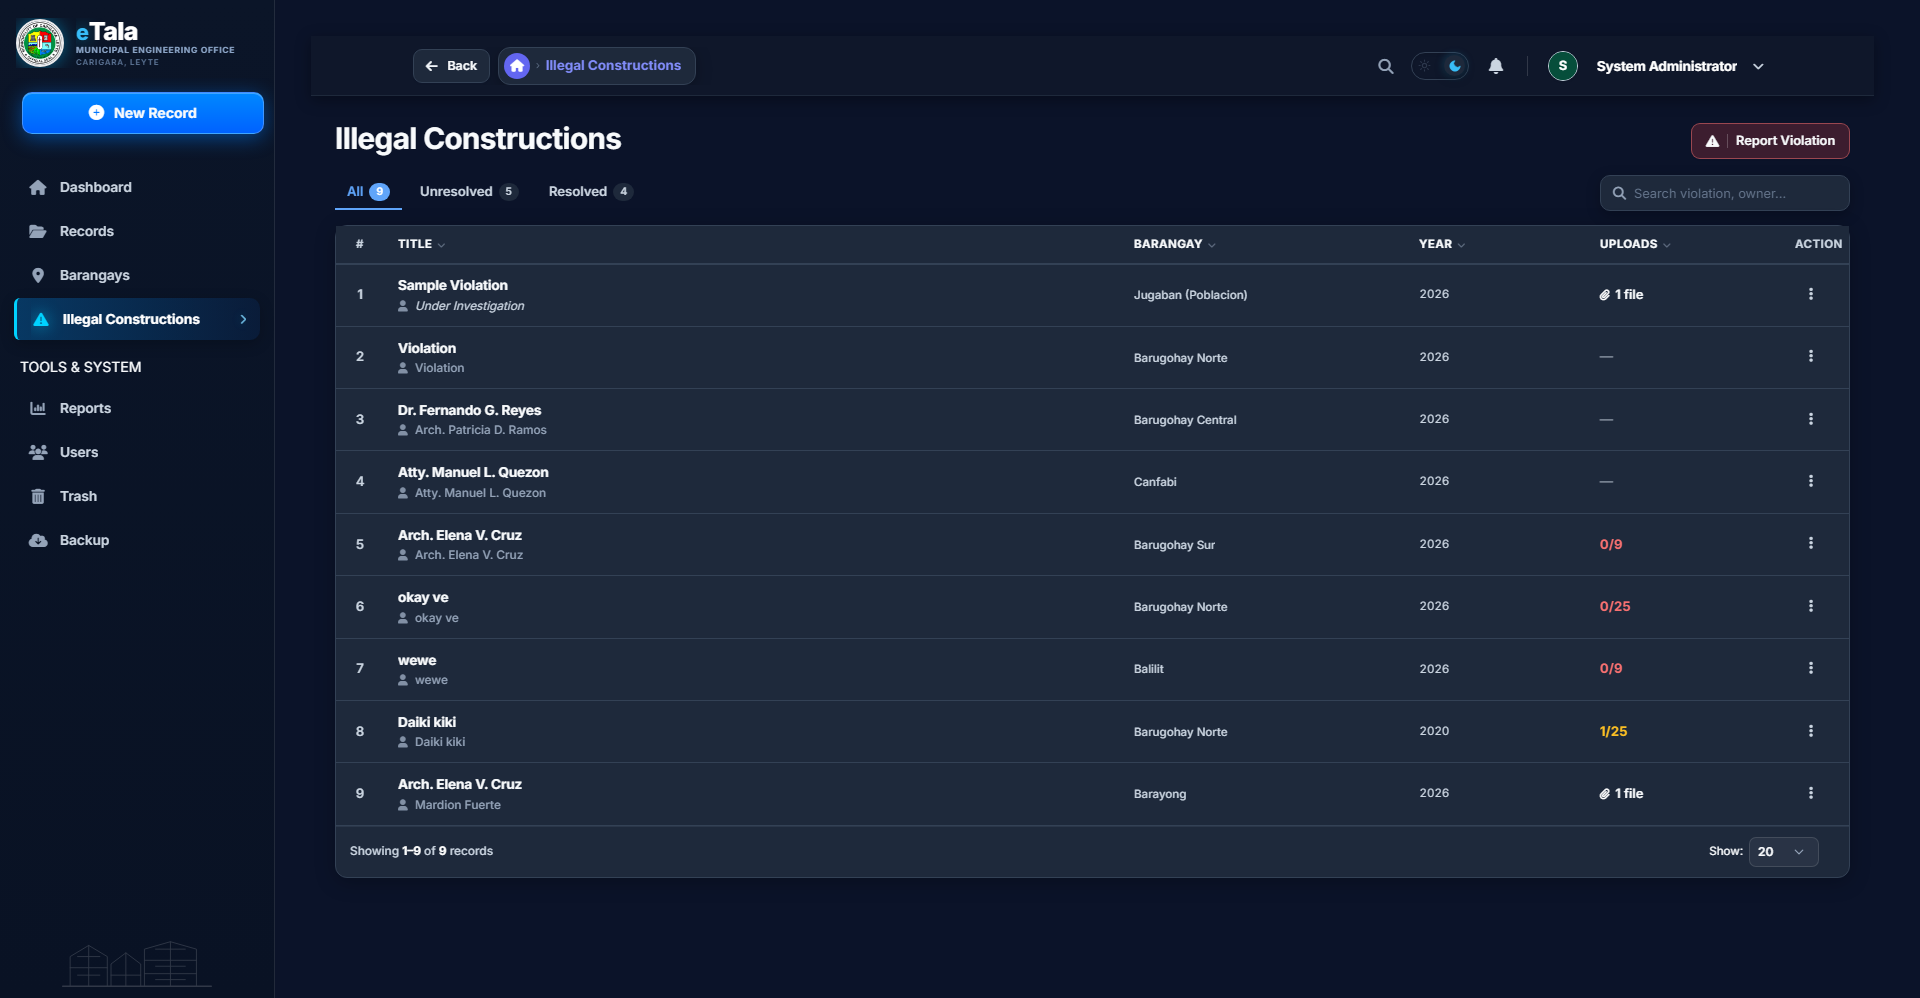
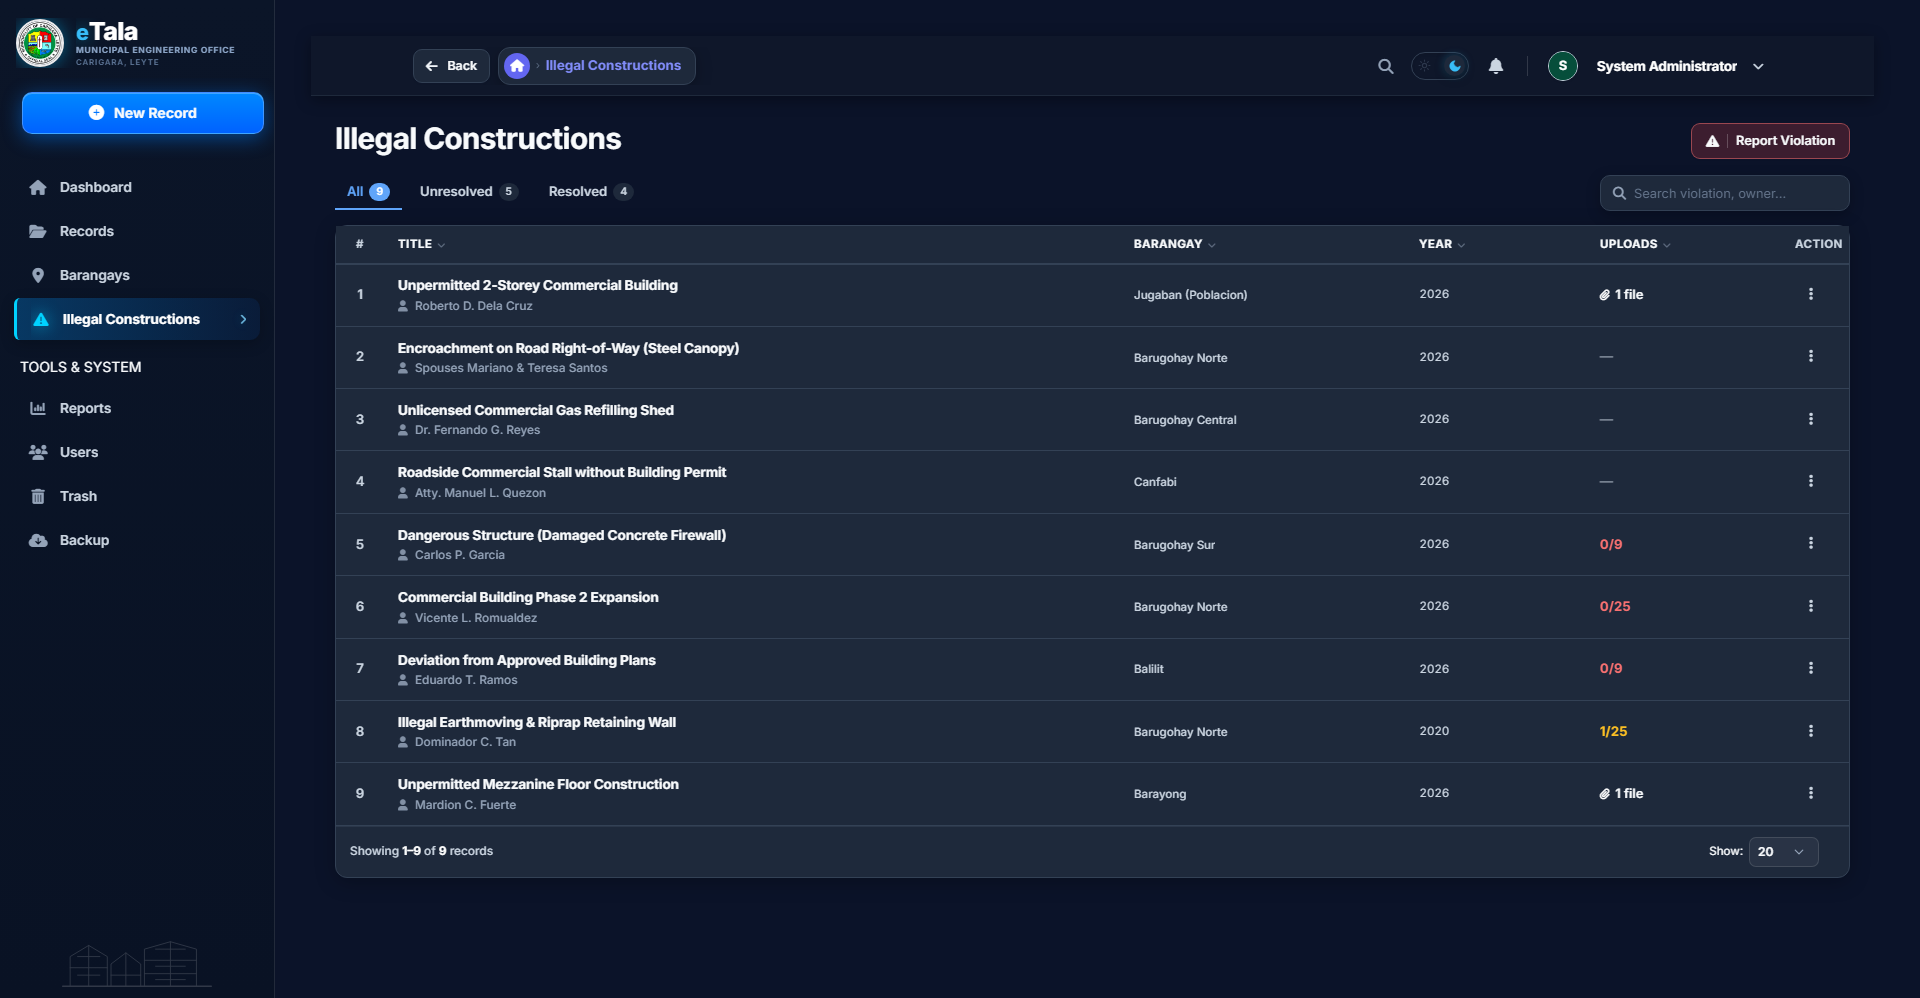
Update illegal construction records with formal names, improve display_title logic, and refresh screenshots

diff --git a/permits/templates/permits/user_manual.html b/permits/templates/permits/user_manual.html
@@ -1391,7 +1391,7 @@ function getTutorialDiagrams(role) {
         8: {
             id: 8,
             title: "Topic 8: Illegal Constructions",
-            image: "{% static 'manual/illegal_constructions.png' %}?v=14",
+            image: "{% static 'manual/illegal_constructions.png' %}?v=15",
             items: [
                 {
                     num: 1,

diff --git a/permits/models.py b/permits/models.py
@@ -237,7 +237,7 @@ class EngineeringRecord(models.Model):
     @property
     def display_title(self):
         """Returns the clean primary display title (e.g. applicant name for permits, project title for projects)."""
-        if self.is_illegal_construction and self.illegal_compliance_status != 'resolved':
+        if self.is_illegal_construction:
             if self.title:
                 for sep in [' · ', ' • ', ' - ']:
                     if sep in self.title:
